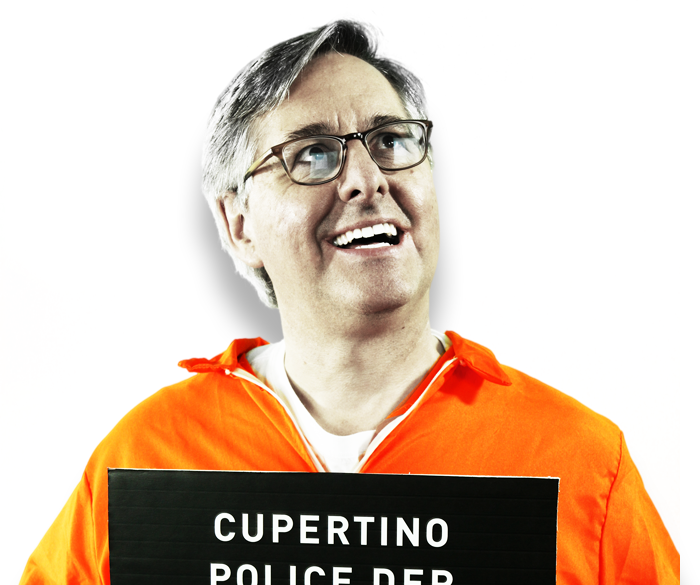
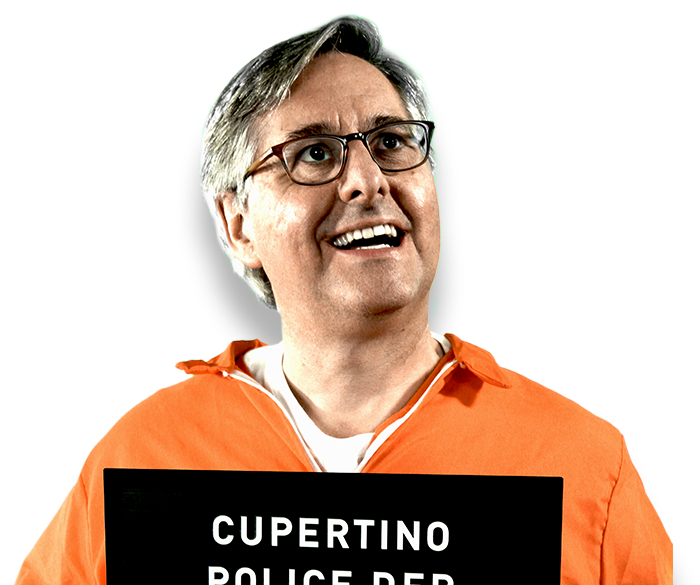
Home page update

diff --git a/_assets/homepage/styles.css b/_assets/homepage/styles.css
@@ -5,7 +5,7 @@ section.hero h2{z-index:500;position:relative;margin:80px 0 0 0;font-size:180px;
 section.hero h2.medium{margin:40px 0 0 0;font-size:100px;}
 section.hero h2.small{margin:40px 0 0 0;font-size:60px;}
 section.hero .dan{position:absolute;bottom:0;z-index:1000;margin-top:-279px;}
-section.hero .dan img{width:100%;}
+section.hero .dan img{float:left;width:100%;}
 section.hero .left-story{position:relative;z-index:1500;margin:30px 0 0 0;}
 section.hero .left-story h3{margin:0 0 16px 0;font-size:12px;letter-spacing:-0.05em;text-transform:uppercase;font-style:italic;font-family:"ltc-bodoni-175",serif;}
 section.hero .left-story h1{color:#bd0706;text-shadow:0 4px 8px rgba(0, 0, 0, 0.4);letter-spacing:-0.02em;line-height:0.8em;font-size:100px;text-transform:uppercase;font-family:"alternate-gothic-no-1-d",sans-serif;}

diff --git a/_assets/homepage/styles.less b/_assets/homepage/styles.less
@@ -41,6 +41,7 @@ section.hero .dan {
     margin-top: -279px; }
 
 section.hero .dan img {
+    float: left;
     width: 100%; }
 
 

diff --git a/homepage.php b/homepage.php
@@ -27,8 +27,8 @@
                     <ul>
                         <li><a href="#" title="Unusual Suspects">Unusual Suspects</a></li>
                         <li><a href="#" title="Art of Storytelling">Art of Storytelling</a></li>
-                        <li><a href="#" title="Minions take over">Minions take over</a></li>
-                        <li><a href="#" title="Catwheeling">Catwheeling</a></li>
+                        <li><a href="#" title="Haniball Buress">Haniball Buress</a></li>
+                        <li><a href="#" title="Kate Upton">Kate Upton</a></li>
                         <li><a href="#" title="And more" class="more">And more</a></li>
                     </ul>
                 </div>
